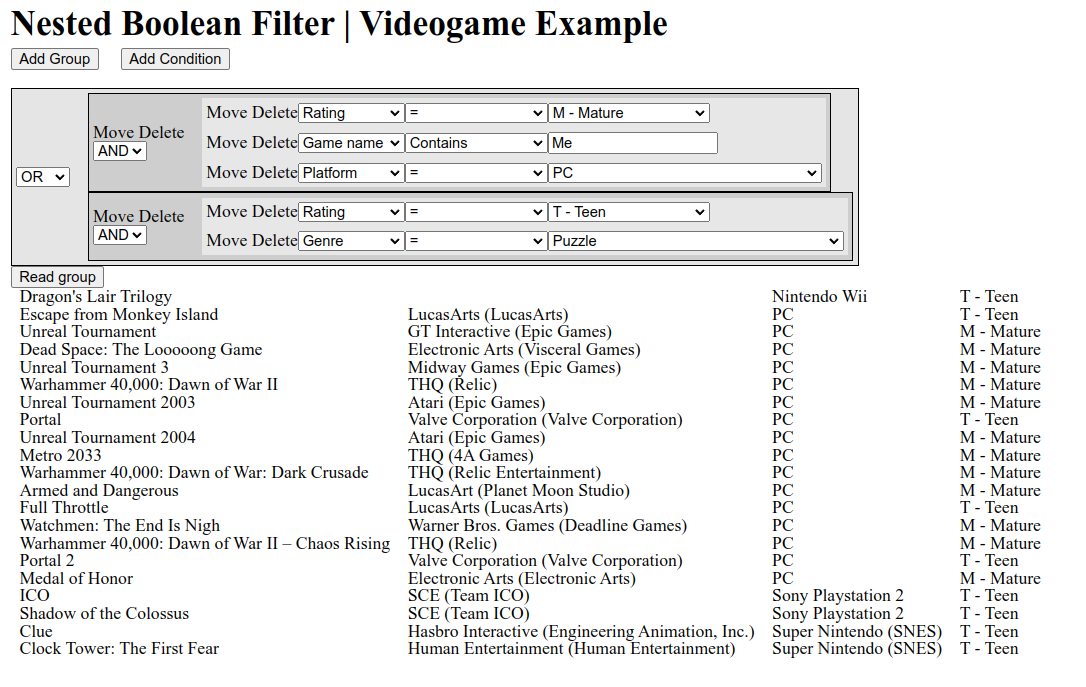
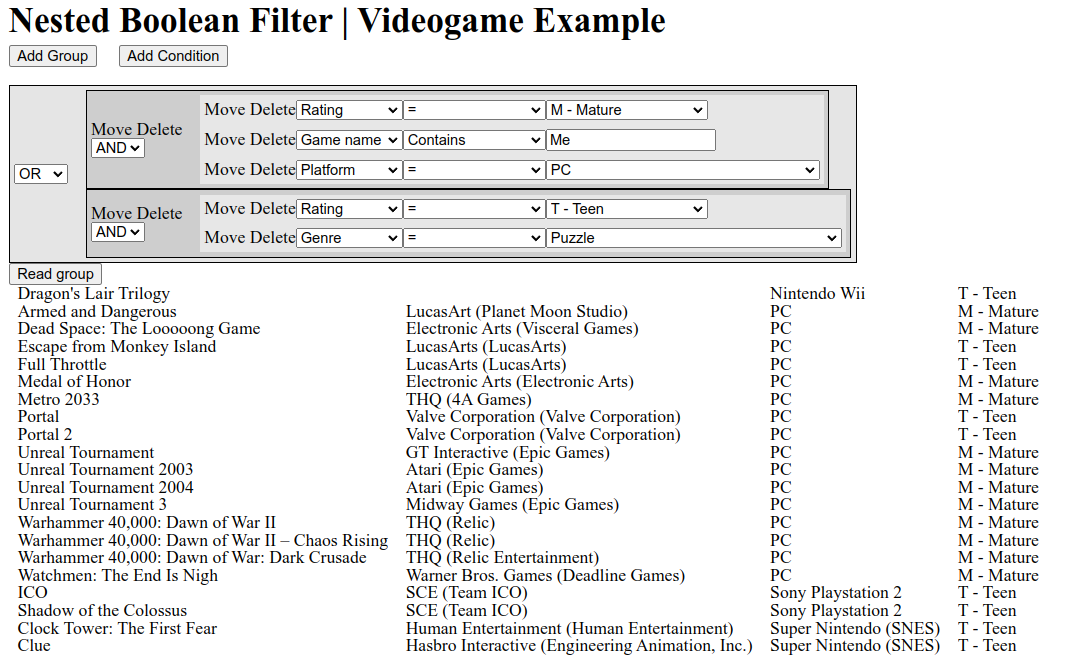
Sort games by title after platform

Changed region(s): [[0.0, 0.0, 0.9869, 0.9851]]

diff --git a/nbfilter.php b/nbfilter.php
@@ -195,7 +195,7 @@ if(isset($_GET['submit'])){
 			) ge ON (g.id=ge.game_id)
 			LEFT JOIN platforms p ON (g.Platform=p.id)
 		WHERE ".($where?:1)."
-		ORDER BY p.name;"
+		ORDER BY p.name, g.GameTitle;"
 	);
 	$columns=[];
 	for($i=0,$count=$result->columnCount(); $i<$count; ++$i){
